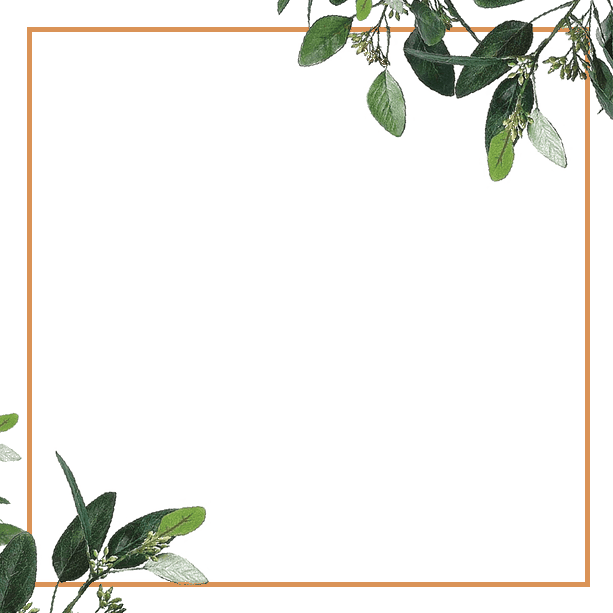
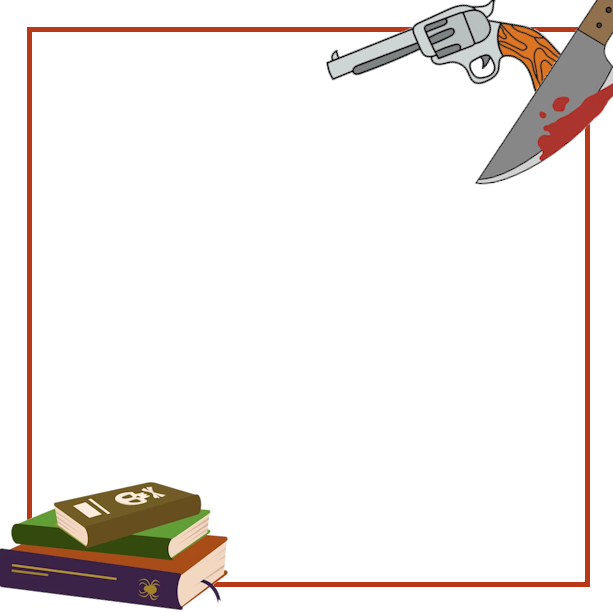
Thursday Murder Club edition

Changed region(s): [[0.0, 0.0, 1.0, 1.0]]

diff --git a/src/components/Jeopardy.svelte b/src/components/Jeopardy.svelte
@@ -131,7 +131,7 @@
     .jeopardy-board {
         display: grid;
         grid-template-columns: repeat(5, 1fr);
-        grid-template-rows: 6rem repeat(5, calc((100vh - 16.7rem) / 5));
+        grid-template-rows: 6rem repeat(4, calc((100vh - 16.7rem) / 4));
         grid-gap: 1rem;
         padding: 1rem;
     }
@@ -142,7 +142,7 @@
         display: flex;
         align-items: center;
         justify-content: center;
-        background-color: #4a684c;
+        background-color: var(--shade);
         color: white;
         border-radius: 2%;
     }
@@ -152,18 +152,18 @@
         height: 100%;
         margin: 0;
         cursor: pointer;
-        background-color: #cbe0cf;
+        background-color: var(--primary);
         display: flex;
         align-items: center;
         justify-content: center;
         font-size: 3rem;
         font-weight: bold;
-        color: #2d3748;
+        color: white;
         border-radius: 2%;
     }
 
     .done {
-        background-color: #4a684c;
+        background-color: var(--shade);
         color: white;
     }
 
@@ -178,7 +178,7 @@
         align-items: center;
         flex-direction: column;
         z-index: 999;
-        background-color: #cfdfd0;
+        background-color: var(--primary);
         text-align: center;
         cursor: default;
     }
@@ -191,7 +191,7 @@
     }
 
     .modal-content h2 {
-        color: #2d3748;
+        color: white;
     }
 
     .modal-content img {
@@ -200,7 +200,7 @@
     }
 
     .next-round-button {
-        background-color: #48bb78;
+        background-color: var(--tint);
         position: fixed;
         top: 0;
         left: 0;

diff --git a/src/App.svelte b/src/App.svelte
@@ -10,21 +10,18 @@
         }, 0);
 </script>
 
-{#if start && hash(password) === -1711369051}
+{#if start}
     <Jeopardy />
 {:else}
     <div class="center">
-        <h1 class="welcome-text">Welcome to</h1>
-        <h1 class="title-text">Wedding Jeopardy</h1>
+        <h1 class="title">Book Jeopardy</h1>
+        <h2 class="subtitle">The Thursday <span>Murder</span> Club</h2>
+        <h1 class="title">Edition</h1>
         <button
             on:click={() => {
                 start = true;
             }}>Start</button
         >
-        <div id="password-container">
-            <label for="password">Password:</label>
-            <input id="password" bind:value={password} type="password" />
-        </div>
     </div>
 {/if}
 
@@ -39,15 +36,25 @@
         color: #212427;
     }
 
-    .welcome-text {
-        font-size: 4rem;
-        margin-bottom: 0;
+    .title {
+        font-size: 6rem;
+        margin: 0;
+    }
+    .subtitle {
+        font-family: 'Mate', serif;
+        font-weight: 400;
+        font-style: italic;
+        font-size: 10rem;
+        margin: 0;
     }
 
-    .title-text {
-        font-size: 8rem;
-        margin-top: 0;
-        font-family: 'Great Vibes', cursive;
-        margin-bottom: 2rem;
+    .subtitle span {
+        font-style: normal;
+        font-weight: bold;
+        color: var(--primary);
+    }
+
+    button {
+        margin-top: 2rem;
     }
 </style>

diff --git a/index.html b/index.html
@@ -16,8 +16,9 @@
 	<!-- Fonts -->
 	<link rel="preconnect" href="https://fonts.googleapis.com">
 	<link rel="preconnect" href="https://fonts.gstatic.com" crossorigin>
-	<link href="https://fonts.googleapis.com/css2?family=Great+Vibes&display=block" rel="stylesheet">
+	<link href="https://fonts.googleapis.com/css2?family=Mate:ital@0;1&display=swap" rel="stylesheet">
 	<link href="https://fonts.googleapis.com/css2?family=Figtree:wght@400;500;700&display=swap" rel="stylesheet">
+
 	<!-- CSS Files -->
 	<link rel="stylesheet" href="https://cdn.jsdelivr.net/npm/water.css@2/out/light.css">
 </head>

diff --git a/docs/index.html b/docs/index.html
@@ -18,6 +18,7 @@
 	<link rel="preconnect" href="https://fonts.gstatic.com" crossorigin>
 	<link href="https://fonts.googleapis.com/css2?family=Great+Vibes&display=block" rel="stylesheet">
 	<link href="https://fonts.googleapis.com/css2?family=Figtree:wght@400;500;700&display=swap" rel="stylesheet">
+
 	<!-- CSS Files -->
 	<link rel="stylesheet" href="https://cdn.jsdelivr.net/npm/water.css@2/out/light.css">
   <script type="module" crossorigin src="/assets/index.359be552.js"></script>

diff --git a/src/global.css b/src/global.css
@@ -1,3 +1,9 @@
+:root {
+	--primary: #ca2b15;
+	--tint: #d55544;
+	--shade: #a22211;
+}
+
 body,
 html {
 	margin: 0px auto;
@@ -15,7 +21,7 @@ html {
 	box-sizing: border-box;
 	border: 30px solid;
 	border-image-source: url(/src/assets/border.png);
-	border-image-slice: 181 337 204 212;
+	border-image-slice: 185 336 164 231;
 	border-image-width: 182px 337px 201px 209px;
 	border-image-outset: 0px 0px 0px 0px;
 	border-image-repeat: stretch repeat;
